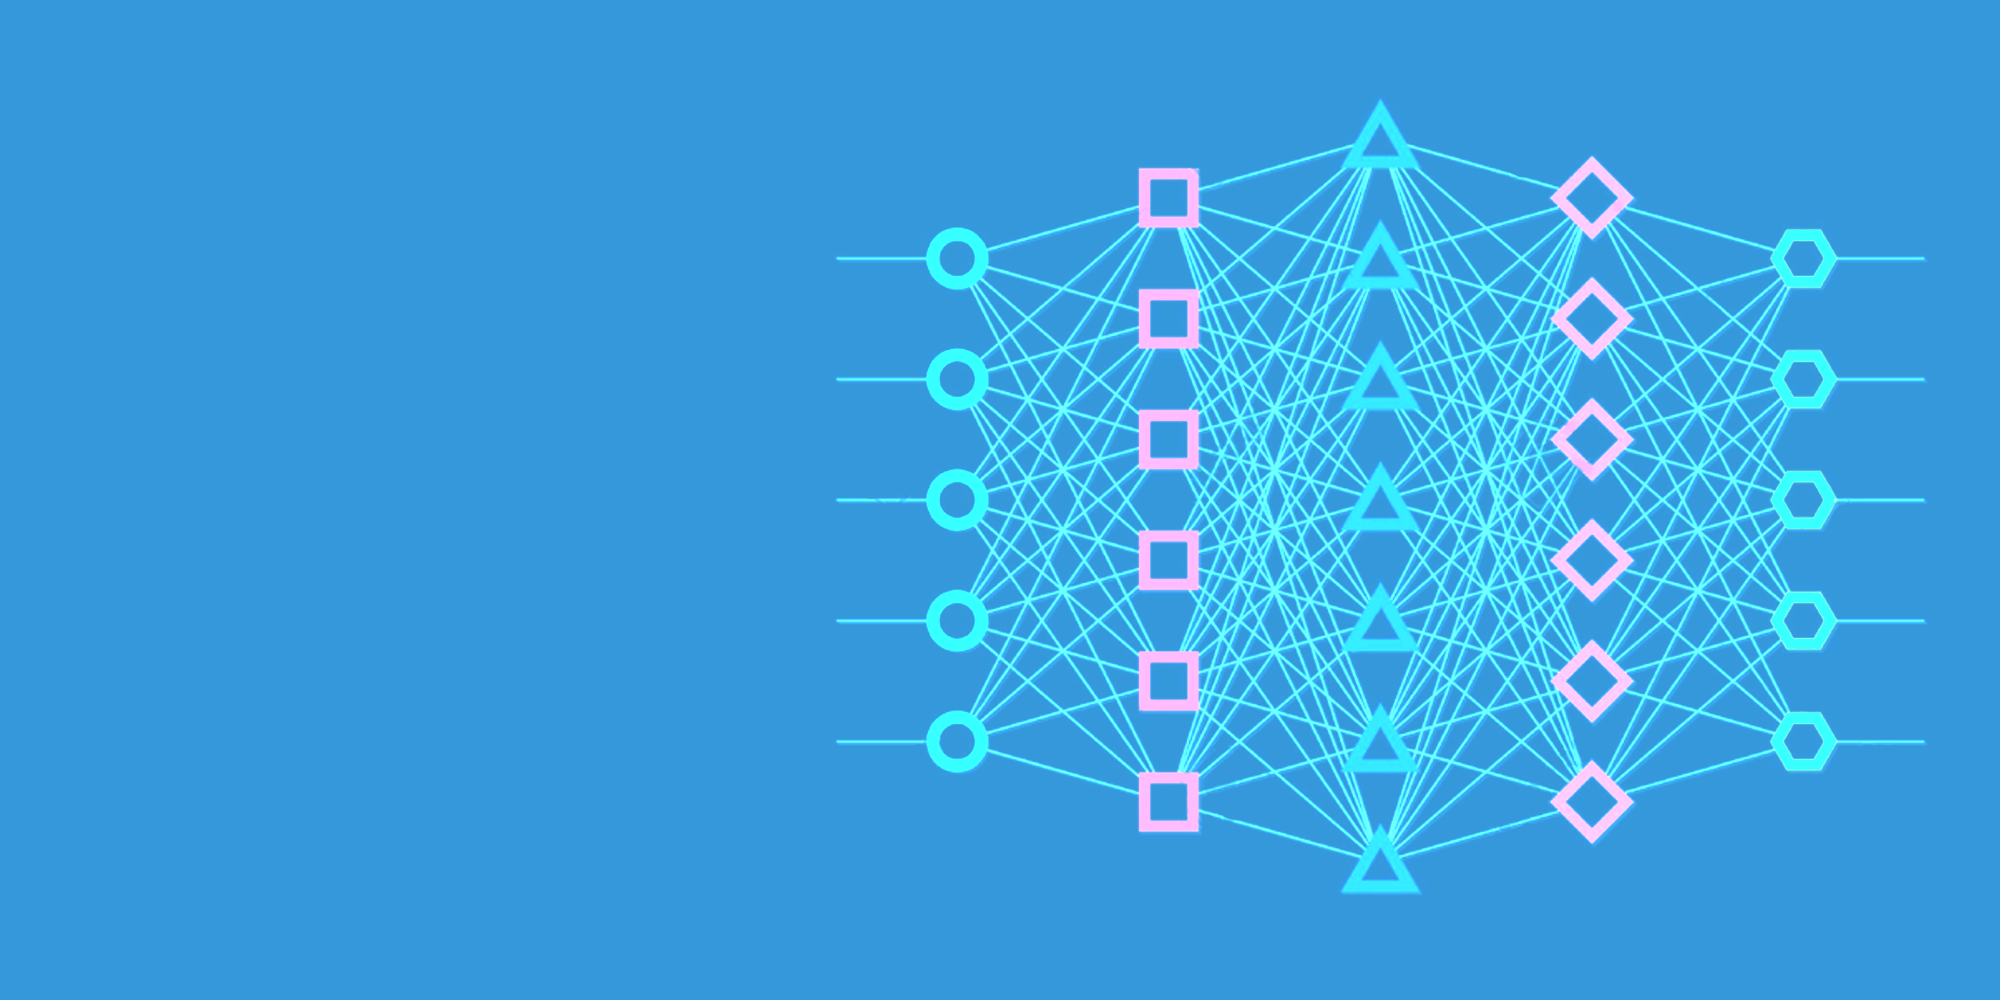
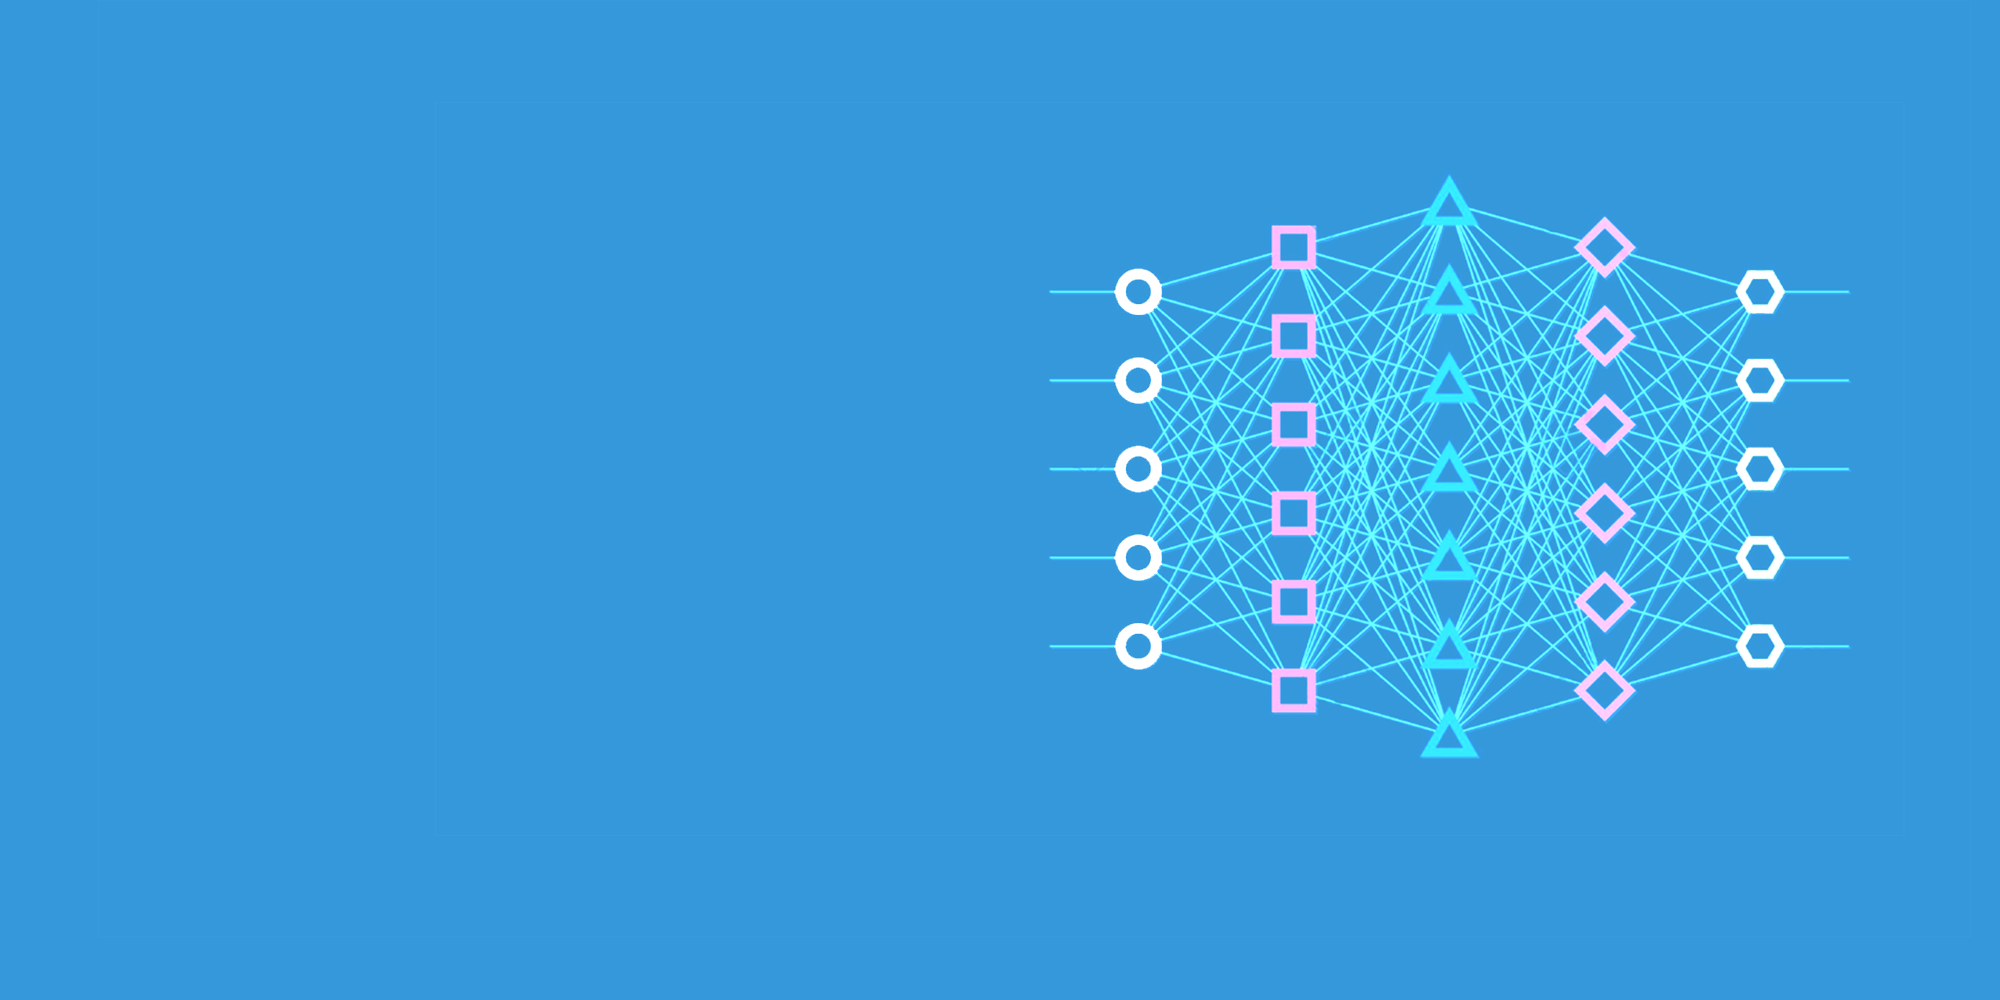
beautify

Changed region(s): [[0.434, 0.093, 0.961, 0.899]]

diff --git a/style.css b/style.css
@@ -54,6 +54,9 @@ h2 {
 
 header {
     background-color: #3498db;
+    background-image: url(bilder/bigbg.png);
+    background-repeat: no-repeat;
+    background-size: contain;
     height: 100%;
     width: 100%;
     z-index: -2;
